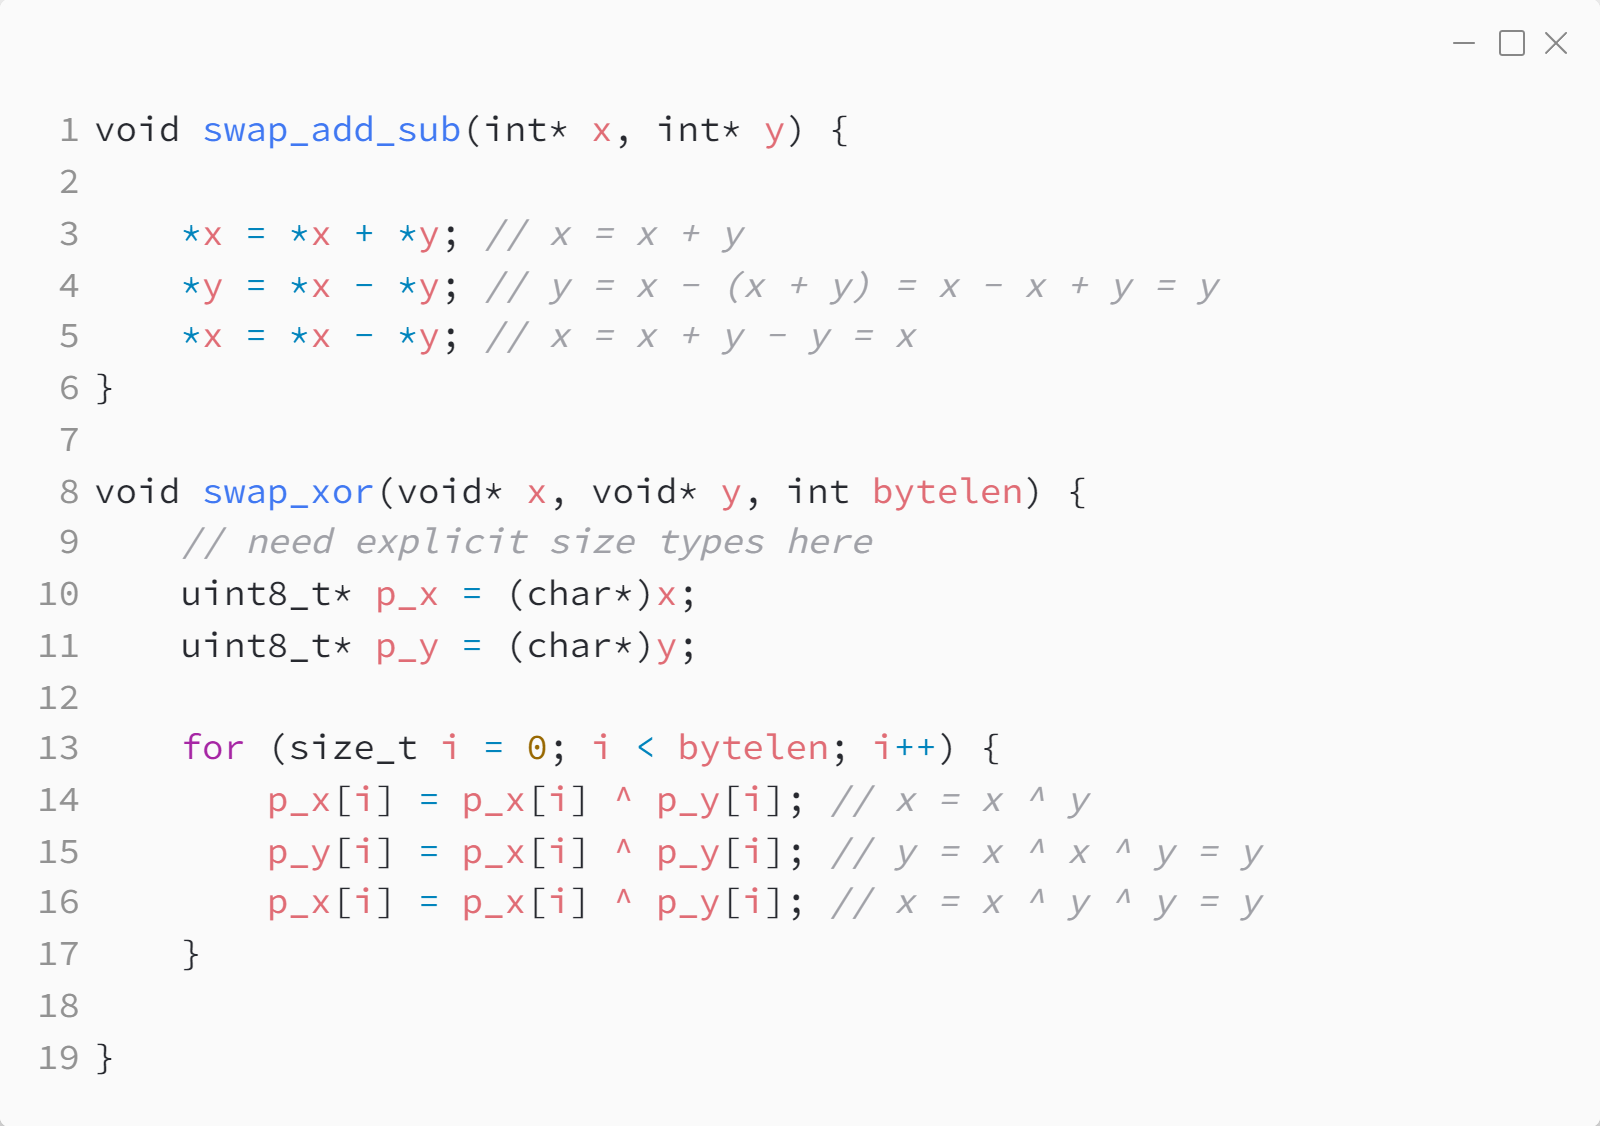
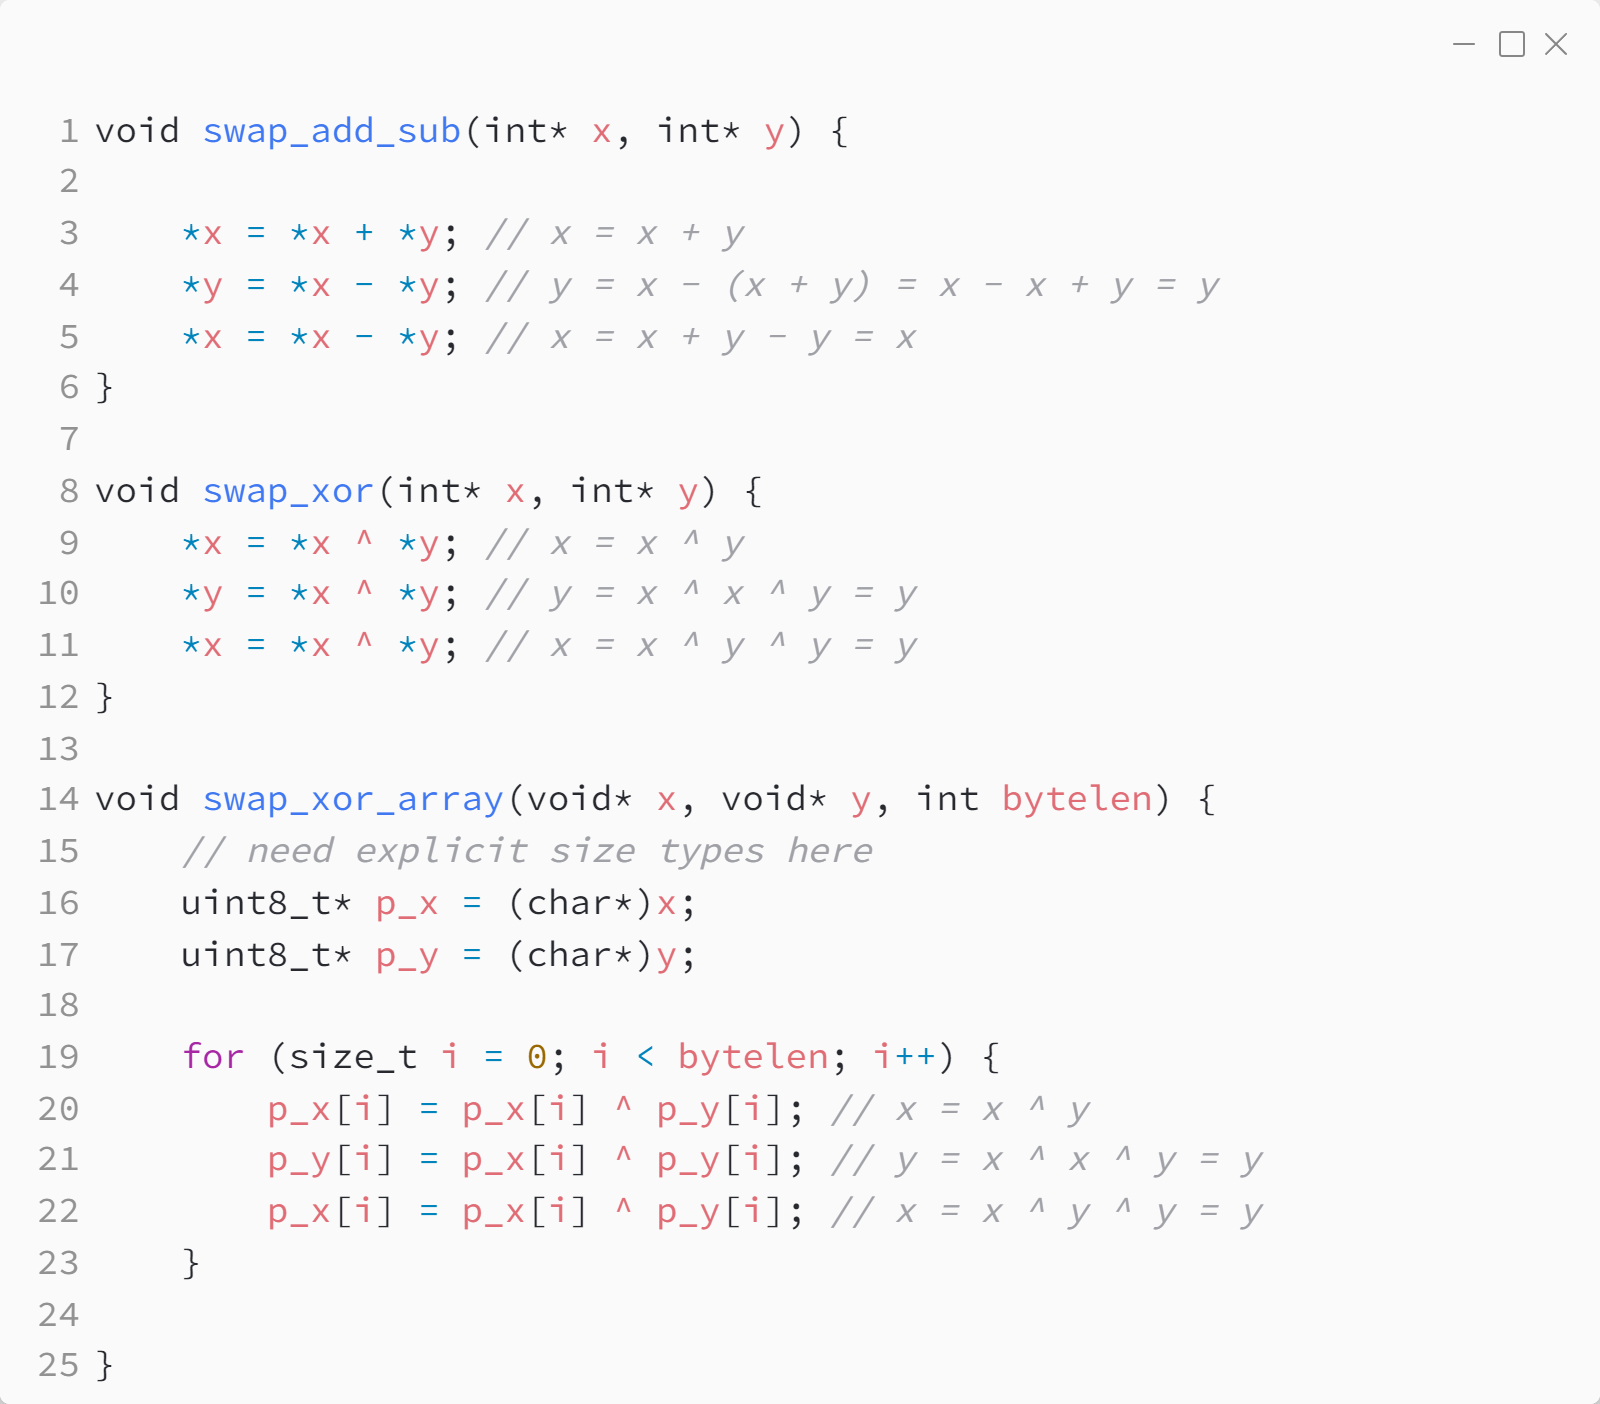
Add simple swap xor example

diff --git a/0_intro/practice/src/swap_variables.c b/0_intro/practice/src/swap_variables.c
@@ -10,7 +10,13 @@ void swap_add_sub(int* x, int* y) {
     *x = *x - *y; // x = x + y - y = x
 }
 
-void swap_xor(void* x, void* y, int bytelen) {
+void swap_xor(int* x, int* y) {
+    *x = *x ^ *y; // x = x ^ y
+    *y = *x ^ *y; // y = x ^ x ^ y = y
+    *x = *x ^ *y; // x = x ^ y ^ y = y
+}
+
+void swap_xor_array(void* x, void* y, int bytelen) {
     // need explicit size types here
     uint8_t* p_x = (char*)x;
     uint8_t* p_y = (char*)y;
@@ -40,7 +46,7 @@ int main() {
     printf("values after swap_add_sub\n");
     printf("%d, %d\n", x, y);
 
-    swap_xor(p_x, p_y, sizeof(int));
+    swap_xor_array(p_x, p_y, sizeof(int));
 
     printf("values after swap_xor\n");
     printf("%d, %d\n", x, y);
